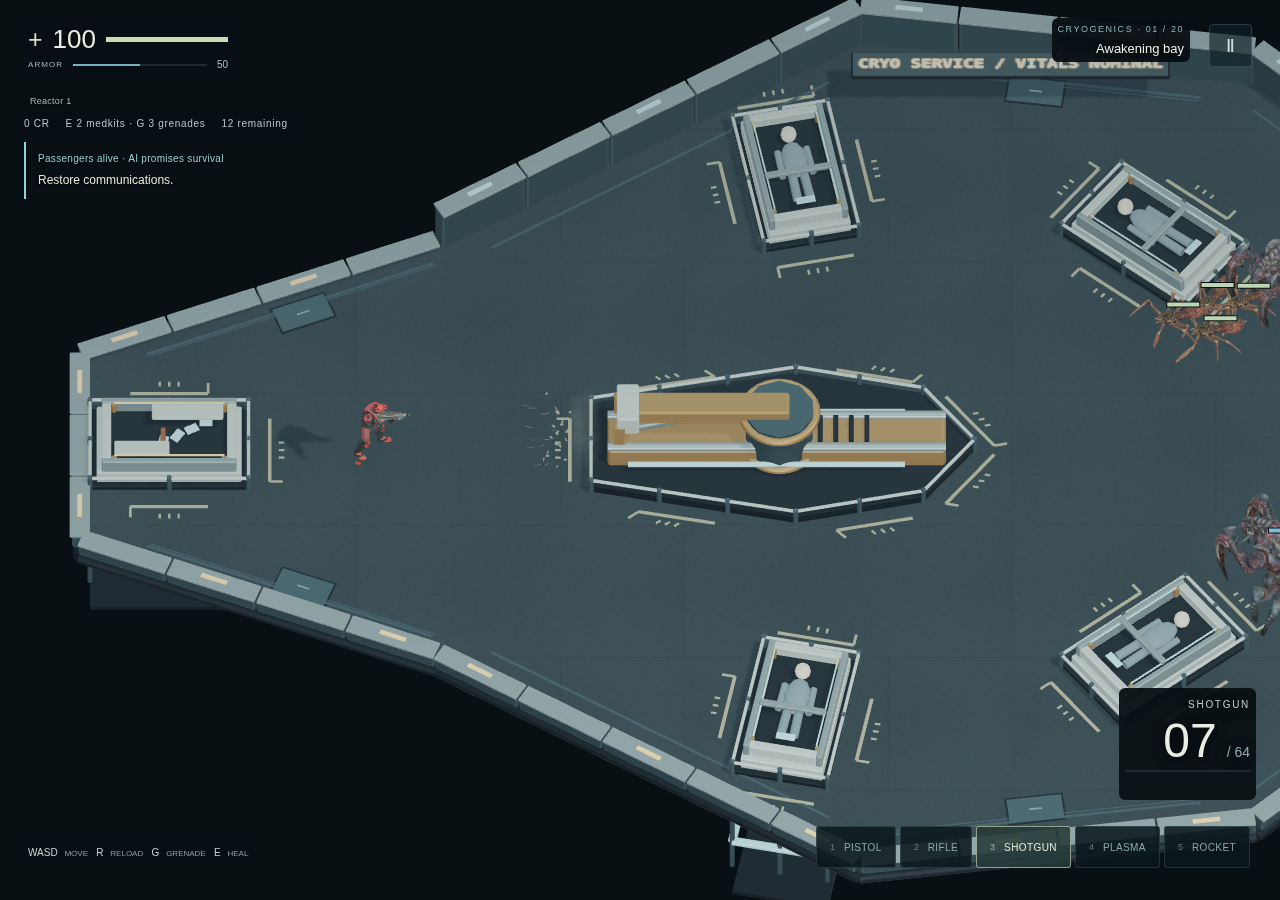
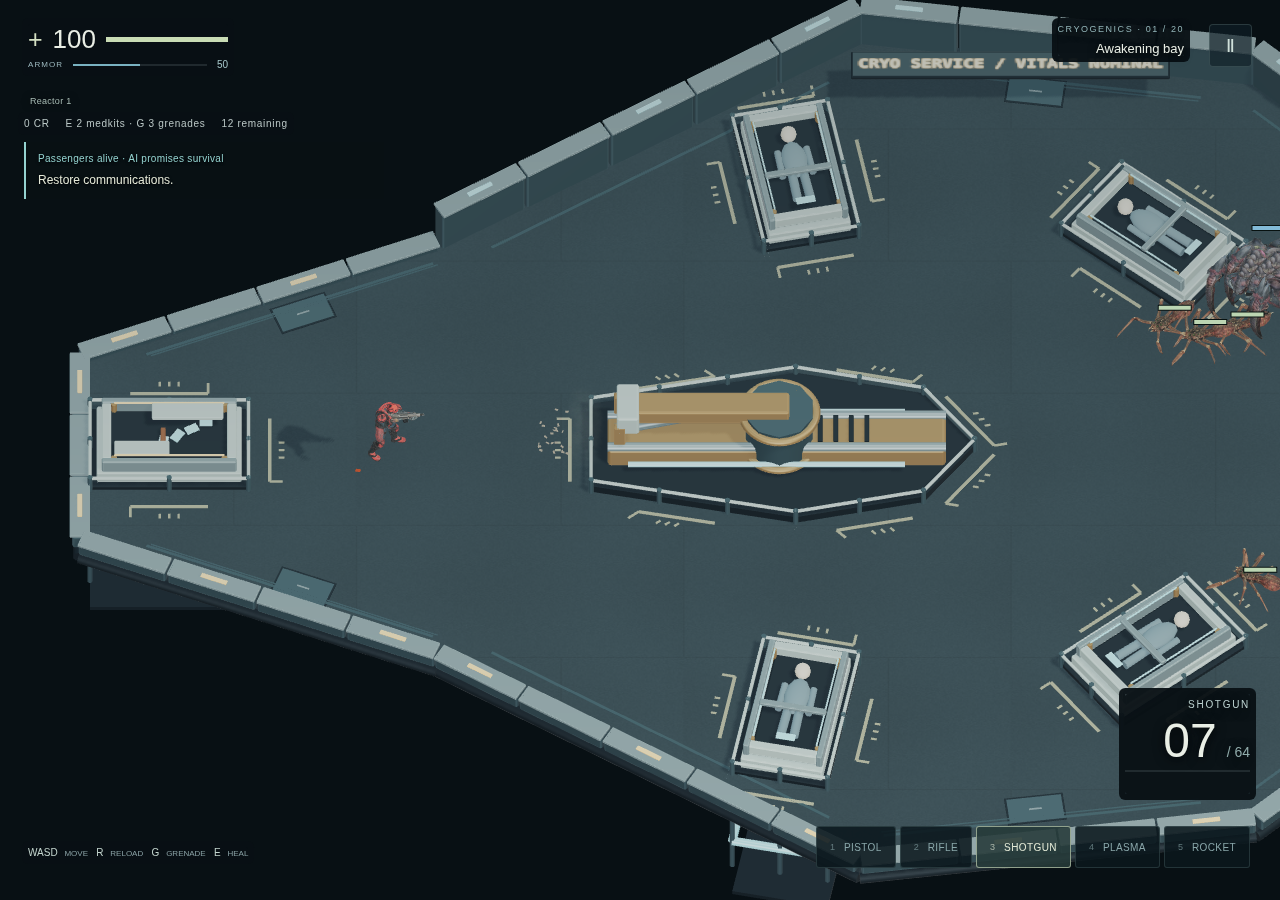
docs: refresh awakening evidence on final merged gameplay

diff --git a/docs/pr-screenshots/awakening-cradle/README.md b/docs/pr-screenshots/awakening-cradle/README.md
@@ -2,7 +2,7 @@
 
 Only `awakening-bay` changes architecture. Twenty campaign IDs, legacy templates, starting boon choice, story and rewards stay intact.
 
-- Baseline `3ffa09e8adeef33769ff1a36704b65780f8383eb`; final source `658f80949a9108d661fc794d53a80cc973343bd7`, synchronized with room13 fix #38 and weapon spread #43.
+- Baseline `e210cc097620ba6c91ef0b8bb00eddf1d25c1f8d`; final source `c478261f37fd8d00321add9666b207d49643c175`, synchronized with room13 fix #38, weapon spread #43 and cryo blast #20.
 - `comparison.png`: matched 1280×900 high-quality fitted-room overviews. Both refreshed overviews are byte-identical after main sync. Changed combat pixels were recaptured and inspected separately.
 - `before/` and `after/`: actual production `DepthGame.update`, legal spawn-to-exit traversal, moving enemies and shots. Controlled fixtures, not campaign playthroughs. Overview fits the room; gameplay uses native camera and production high-quality composer.
 - `hud-desktop/` and `hud-phone/`: built production app on final source, real new-run boon selection, pause/quality/resume, story skip and keyboard/touch firing. Low-quality interaction evidence, not matched overview comparisons. No browser errors; controls and player remain readable.
@@ -13,7 +13,7 @@ Only `awakening-bay` changes architecture. Twenty campaign IDs, legacy templates
 
 New topology regressions failed on the old room before implementation. Focused tests cover radius-38 routes on both sides of the arm, live enemy traversal, projectiles, machinery/drop exclusion, and visible radial architecture. Fresh-main comparison found only awakening-bay changed among all 36 templates, including legacy templates.
 
-Full `npm run verify` passed again after synchronizing #38 and #43: 295 unit tests, one optional benchmark skipped, seven evidence/recorder checks, typecheck/build and desktop/touch input/restart smoke. Final desktop and phone authored-room input probes also passed. The PR's required `verify` repeats the full gate on the published head.
+Full `npm run verify` passed again after synchronizing #38, #43 and #20: 304 unit tests, one optional benchmark skipped, seven evidence/recorder checks, typecheck/build and desktop/touch input/restart smoke. Final desktop and phone authored-room input probes also passed. The PR's required `verify` repeats the full gate on the published head.
 
 Reproduce from repository root:
 
@@ -26,4 +26,4 @@ node scripts/authored-room-smoke.mjs --rooms=awakening-bay --viewport=phone --ou
 node scripts/room-demo.mjs --room=awakening-bay --source-sha=$(git rev-parse HEAD) --out=/tmp/awakening-video
 ```
 
-Recorder manifests retain exact source hashes, raw frame hashes, ffprobe, decoded motion, actor checks and browser errors. The manifest's automated pixel-review placeholder is superseded by this manual review record. Before capture needed a watchdog-only extension from 120 to 360 seconds; the shipping recorder includes bounded cleanup. An initial video validation omitted armor from damage accounting; it was corrected and the entire final video was recaptured. All published evidence was refreshed after both concurrent main merges.
+Recorder manifests retain exact source hashes, raw frame hashes, ffprobe, decoded motion, actor checks and browser errors. The manifest's automated pixel-review placeholder is superseded by this manual review record. Before capture needed a watchdog-only extension from 120 to 360 seconds; the shipping recorder includes bounded cleanup. An initial video validation omitted armor from damage accounting; it was corrected and the entire final video was recaptured. All published evidence was refreshed after the concurrent main merges. The final MP4 and overview images are byte-identical to the previous capture; refreshed HUD/combat screenshots were inspected separately.
